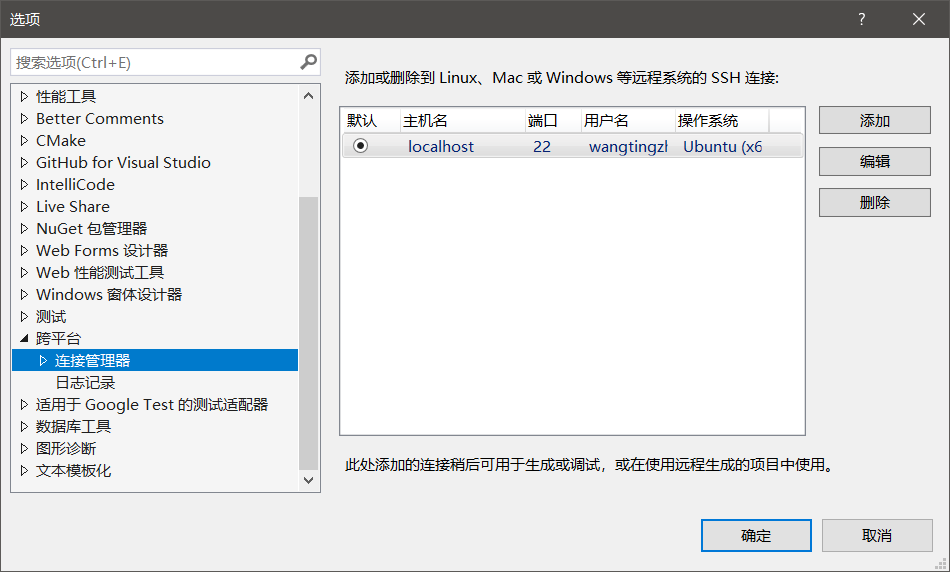
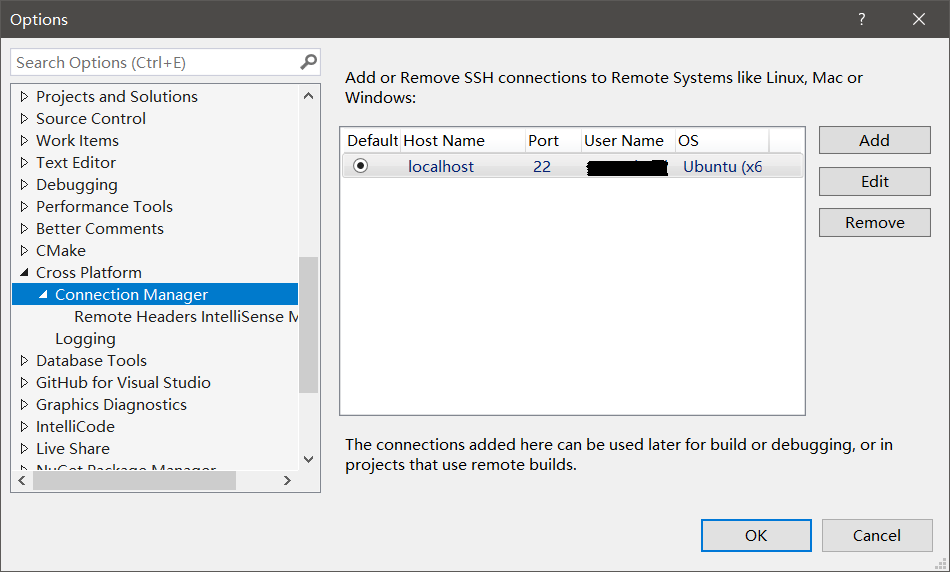
fix wsl connection image in reademe

diff --git a/README.md b/README.md
@@ -45,6 +45,8 @@ Tools-Options-Cross Platform-Connection Manager
 
 to add your connection to WSL, the host is `localhost`.
 
+![connection](./doc/image/readme_options.png)
+
 ## Get the code
 
 Use `git clone` to download this project in your Windows and open it with Visual Studio 2019( File - Open - CMake)
